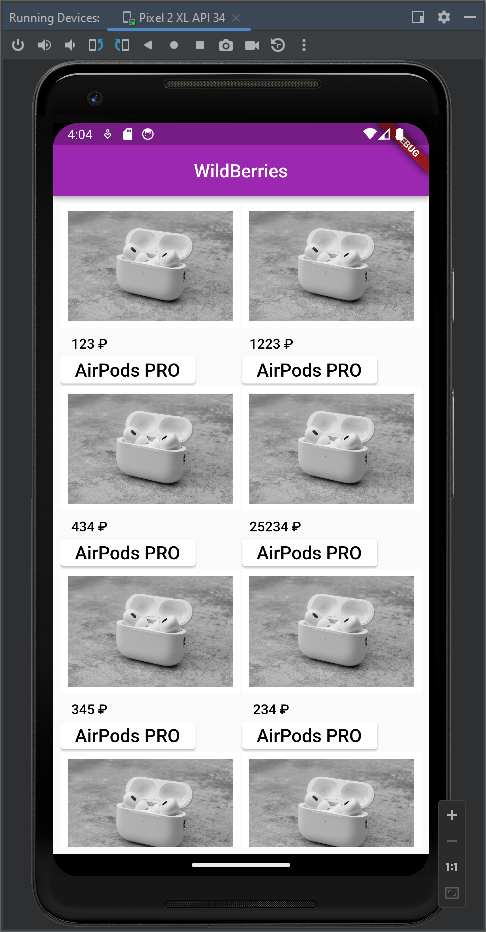
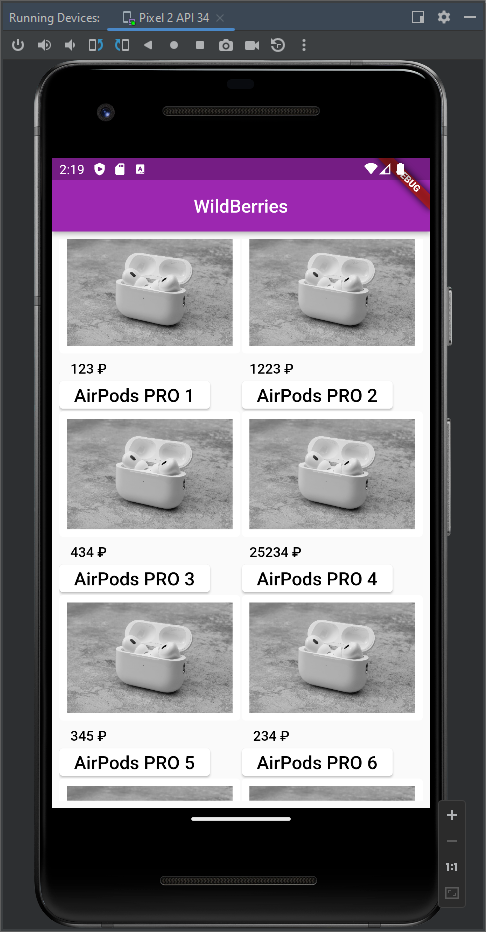
release v2

diff --git a/lib/main.dart b/lib/main.dart
@@ -18,7 +18,7 @@ class MyHomePage extends StatefulWidget {
 
 class _MyHomePageState extends State<MyHomePage> {
 
-  final List massages = [
+  final List Photos = [
     'https://krasnodar.stores-apple.com/blog/P1054788s-scaled.jpg',
     'https://krasnodar.stores-apple.com/blog/P1054788s-scaled.jpg',
     'https://krasnodar.stores-apple.com/blog/P1054788s-scaled.jpg',
@@ -32,17 +32,17 @@ class _MyHomePageState extends State<MyHomePage> {
 
   ];
 
-  final List Rimlin = [
-    'AirPods PRO',
-    'AirPods PRO',
-    'AirPods PRO',
-    'AirPods PRO',
-    'AirPods PRO',
-    'AirPods PRO',
-    'AirPods PRO',
-    'AirPods PRO',
-    'AirPods PRO',
-    'AirPods PRO',
+  final List Name = [
+    'AirPods PRO 1',
+    'AirPods PRO 2',
+    'AirPods PRO 3',
+    'AirPods PRO 4',
+    'AirPods PRO 5',
+    'AirPods PRO 6',
+    'AirPods PRO 7',
+    'AirPods PRO 8',
+    'AirPods PRO 9',
+    'AirPods PRO 10',
   ];
 
   final List Price = [
@@ -80,7 +80,7 @@ class _MyHomePageState extends State<MyHomePage> {
                   crossAxisSpacing: 2,
                   mainAxisSpacing: 3,
                 ),
-                itemCount: massages.length,
+                itemCount: Photos.length,
                 itemBuilder: (BuildContext context, int index) {
                   return Column(
                     crossAxisAlignment: CrossAxisAlignment.start,
@@ -91,14 +91,14 @@ class _MyHomePageState extends State<MyHomePage> {
                           onPressed: () {
                             Navigator.of(context).push(
                               MaterialPageRoute(
-                                builder: (context) => const SecondP(),
+                                builder: (context) => SecondP(Photos: Photos[index], Price: Price[index], Name: Name[index], ),
                               ),
                             );
                           },
 
                           child: Flexible(
                           flex: 1,
-                          child: Image(image: NetworkImage('${massages[index]}')
+                          child: Image(image: NetworkImage('${Photos[index]}')
                           ))),
 
                   Flexible(
@@ -107,7 +107,7 @@ class _MyHomePageState extends State<MyHomePage> {
                           onPressed: () {
                             Navigator.of(context).push(
                               MaterialPageRoute(
-                                builder: (context) => const SecondP(),
+                                builder: (context) => SecondP(Photos: Photos[index], Price: Price[index], Name: Name[index], ),
                               ),
                             );
                           },
@@ -123,14 +123,14 @@ class _MyHomePageState extends State<MyHomePage> {
                           onPressed: () {
                             Navigator.of(context).push(
                               MaterialPageRoute(
-                                builder: (context) => const SecondP(),
+                                builder: (context) => SecondP(Photos: Photos[index], Price: Price[index], Name: Name[index], ),
                               ),
                             );
                           },
 
                       child: Flexible(
                           flex: 1,
-                          child: Text('${Rimlin[index]}', style: TextStyle(color: Colors.black, fontSize: 20,),)))),
+                          child: Text('${Name[index]}', style: TextStyle(color: Colors.black, fontSize: 20,),)))),
                     ],
                   );
                 },

diff --git a/lib/secondp.dart b/lib/secondp.dart
@@ -1,36 +1,31 @@
 import 'package:flutter/material.dart';
 
 class SecondP extends StatelessWidget {
-  const SecondP({Key? key}) : super(key: key);
+  const SecondP({super.key, this.Photos, this.Price, this.Name });
+  final Name;
+  final Price;
+  final Photos;
 
   @override
   Widget build(BuildContext context) {
     return Scaffold(
-      appBar: AppBar(
-        centerTitle: true,
-        backgroundColor: Colors.purple,
-        title: const Text('WildBerries'),
-      ),
-      body: Padding(
-    padding: const EdgeInsets.all(8),
-        child: Column(
-            mainAxisSize: MainAxisSize.max,
-            crossAxisAlignment: CrossAxisAlignment.start,
-        children: [
+      appBar: AppBar(title: Text("WildBerries"), backgroundColor: Colors.purple,),
 
-           Image(image: NetworkImage('https://krasnodar.stores-apple.com/blog/P1054788s-scaled.jpg')),
+        body: Column(
+          crossAxisAlignment: CrossAxisAlignment.start,
+          children: [
+            Center(
+            child: Flexible(
+            flex: 1,
+            child: Image.network("${Photos}",))),
 
-          Text('**** ₽', style: TextStyle(color: Colors.black, fontSize: 20,),),
+            Flexible(
+              flex: 1,
+            child: Text("${Price}", style: TextStyle(color: Colors.black, fontSize: 25,),) ),
 
-          Text('AirPods PRO', style: TextStyle(color: Colors.black, fontSize: 25,),),
-
-          Text('Цвет: Белый', style: TextStyle(color: Colors.black, fontSize: 15,),),
-
-          Text('Продавец: Apple', style: TextStyle(color: Colors.black, fontSize: 25,),),
-
-          Text('Доставка со склада: 8 августа', style: TextStyle(color: Colors.black, fontSize: 25,),),
-        ],
-      )),
-    );
+            Flexible(
+              flex: 1,
+            child: Text('${Name}', style: TextStyle(color: Colors.black, fontSize: 30,),)),
+              ]));
   }
 }
